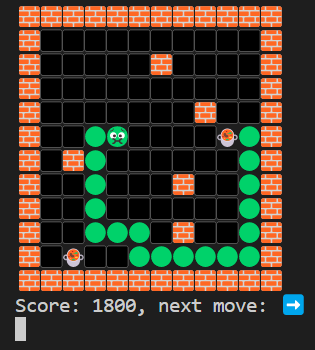
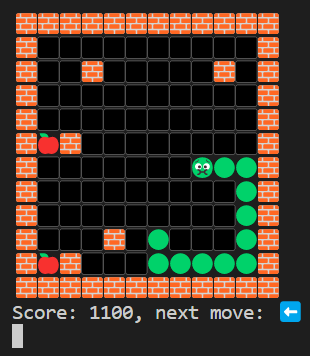
change food to apple

diff --git a/snakes/snakes.go b/snakes/snakes.go
@@ -12,7 +12,7 @@ import (
 type matter string
 
 const (
-	food      matter = "🍲"
+	food      matter = "🍎"
 	wall      matter = "🧱"
 	vacant    matter = "⬛"
 	snake     matter = "🟢"

diff --git a/README.md b/README.md
@@ -9,8 +9,9 @@ Sample Project for Learning GO
 2. clone and run
 
 ```bash
-$ git clone https://github.com/bumprat/go-snakes-game.git
-$ go run .
+git clone https://github.com/bumprat/go-snakes-game.git
+cd ./go-snakes-game
+go run .
 ```
 
 ![Game Preview](./preview.jpg)
